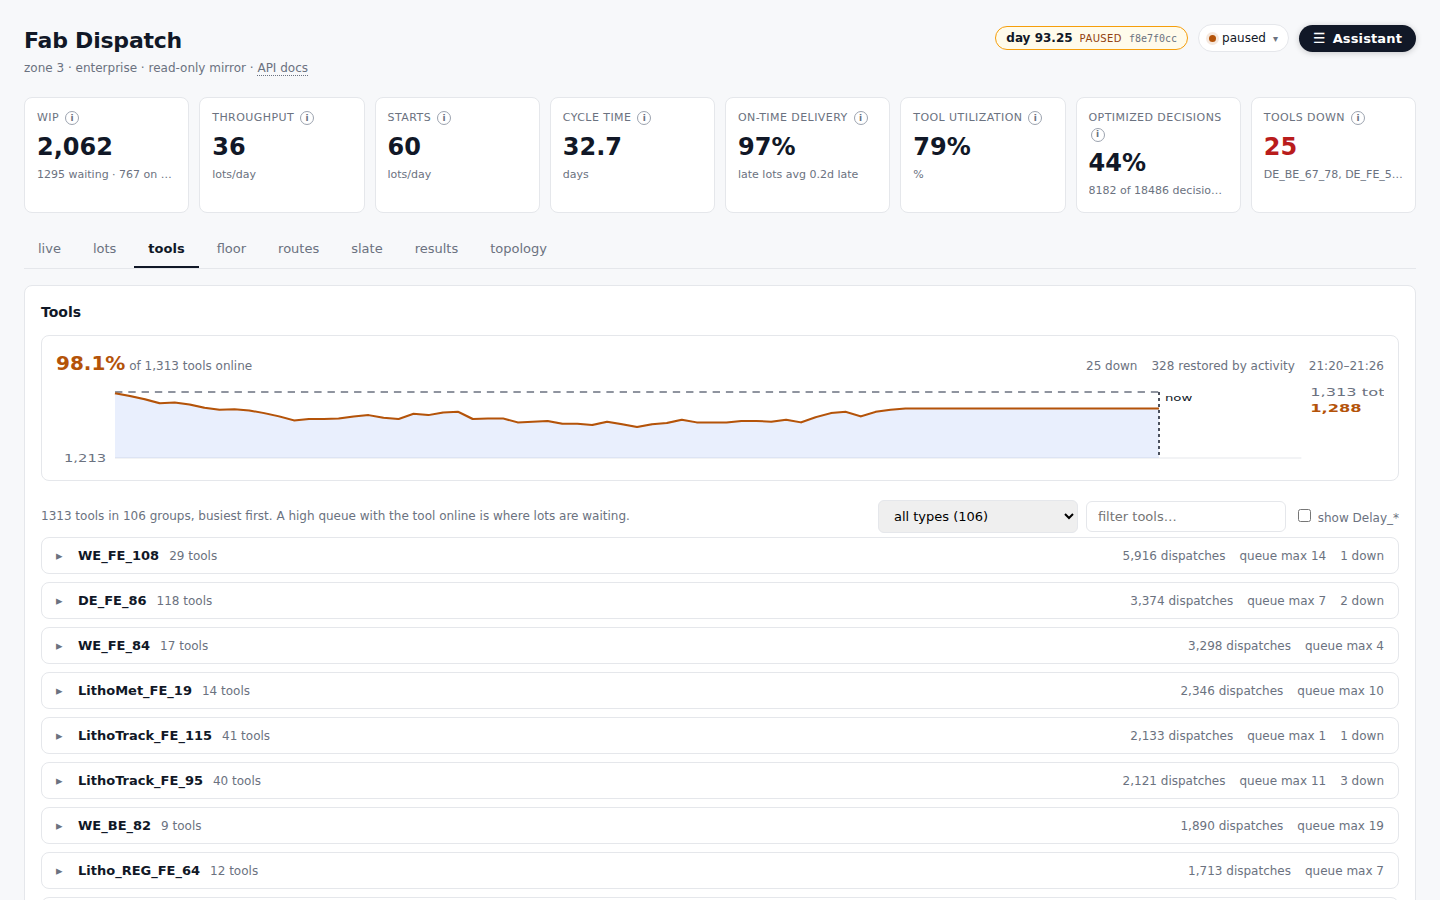
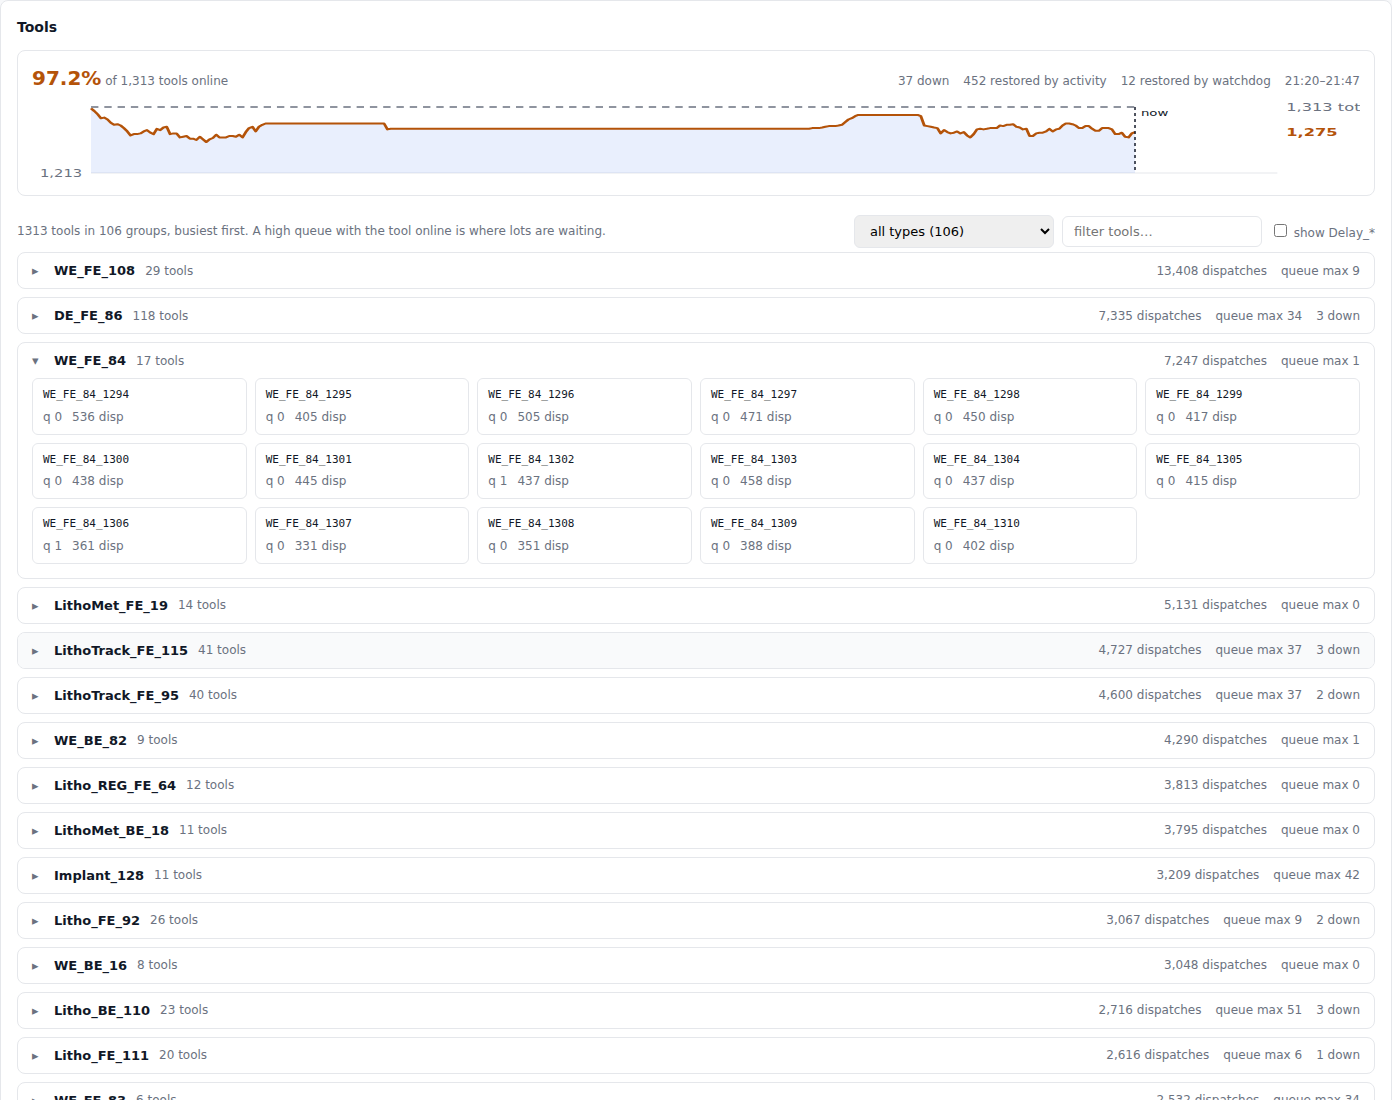
README tour: tools tab with a group expanded
Claude-Session: https://claude.ai/code/session_013AEQWXnqfUe5GqHVavaMmw

diff --git a/README.md b/README.md
@@ -87,10 +87,12 @@ the lot-level view of what the dispatch rule is doing to a product.
 ![tools](docs/screenshots/tools.png)
 
 All 1,313 tools in 106 groups, busiest first, with the online roster over
-time (breakdowns and PM take tools out; the feed brings them back). Queue
-depth beside an online tool is where lots are waiting, i.e. where the
-dispatch decision matters most. Each row drills down to a single tool's
-dispatches and the choice set it was offered.
+time (breakdowns and PM take tools out; the feed brings them back, and a
+watchdog holds the roster if an event is lost). Expanding a group — here
+`WE_FE_84`, 17 wet-etch tools, 7,247 dispatches — shows each tool's queue
+and dispatch count; queue depth beside an online tool is where lots are
+waiting, i.e. where the dispatch decision matters most. Each tool card
+drills down to its dispatches and the choice set it was offered.
 
 ### Floor — the cleanroom as a map
 ![floor](docs/screenshots/floor.png)
